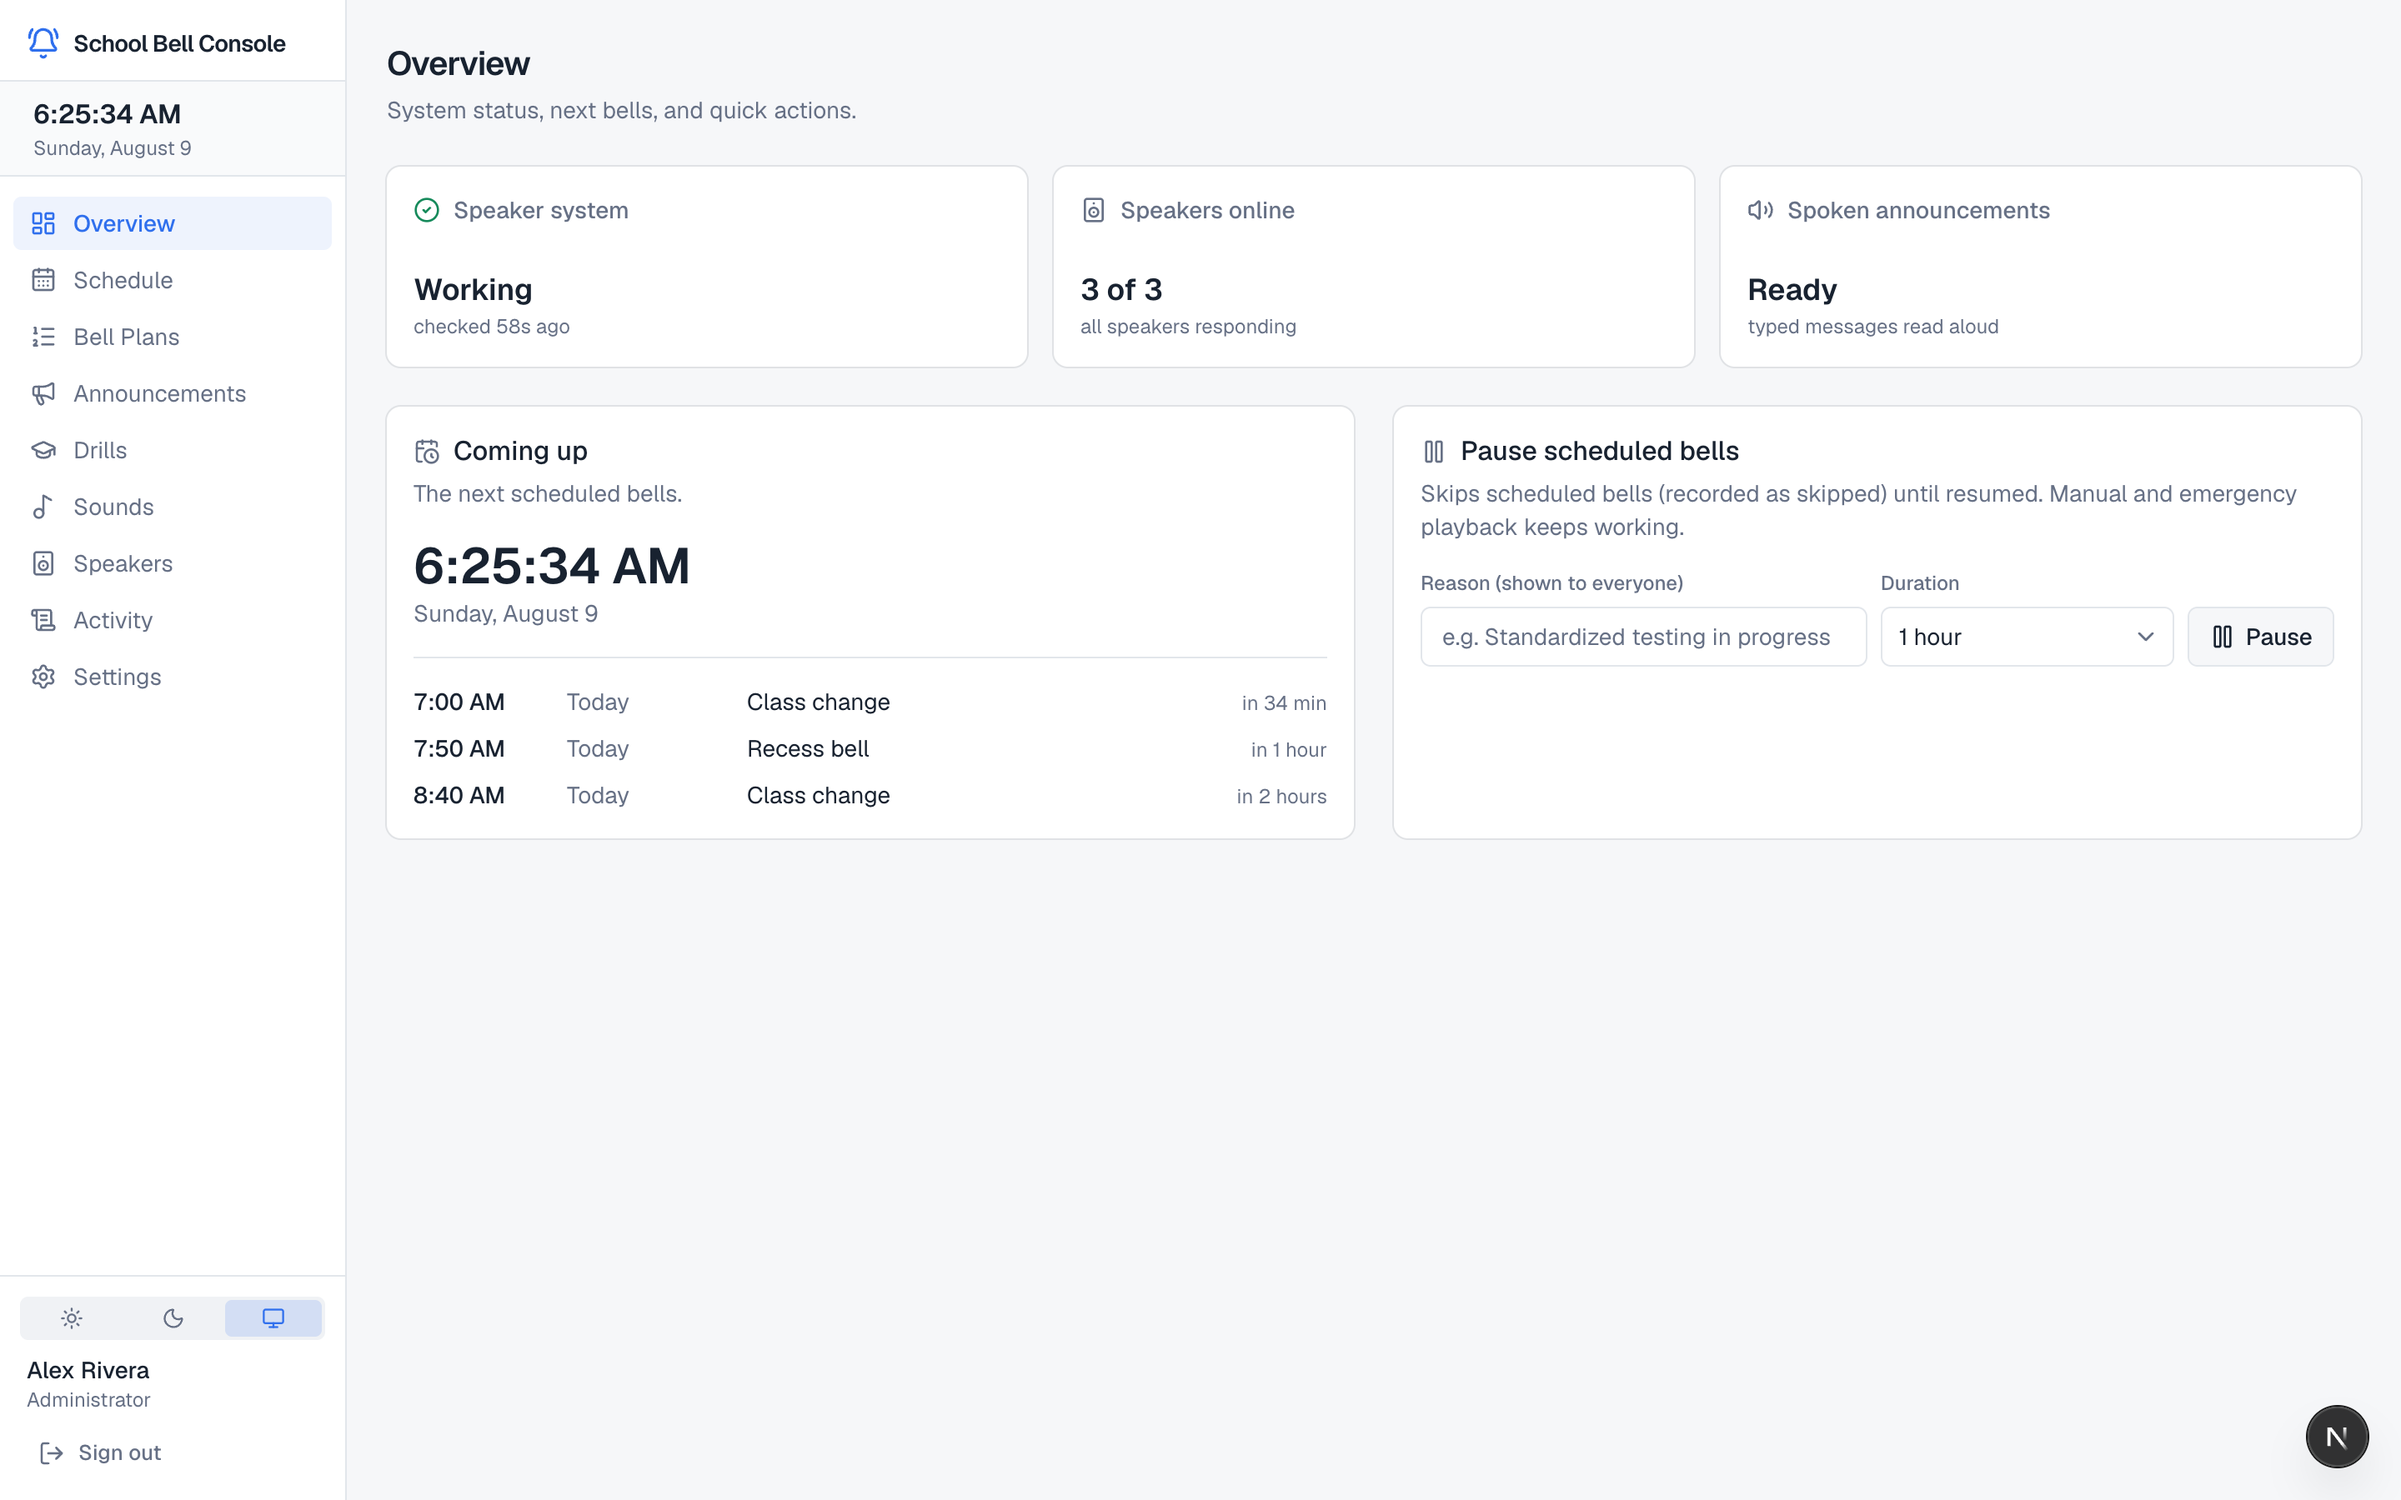
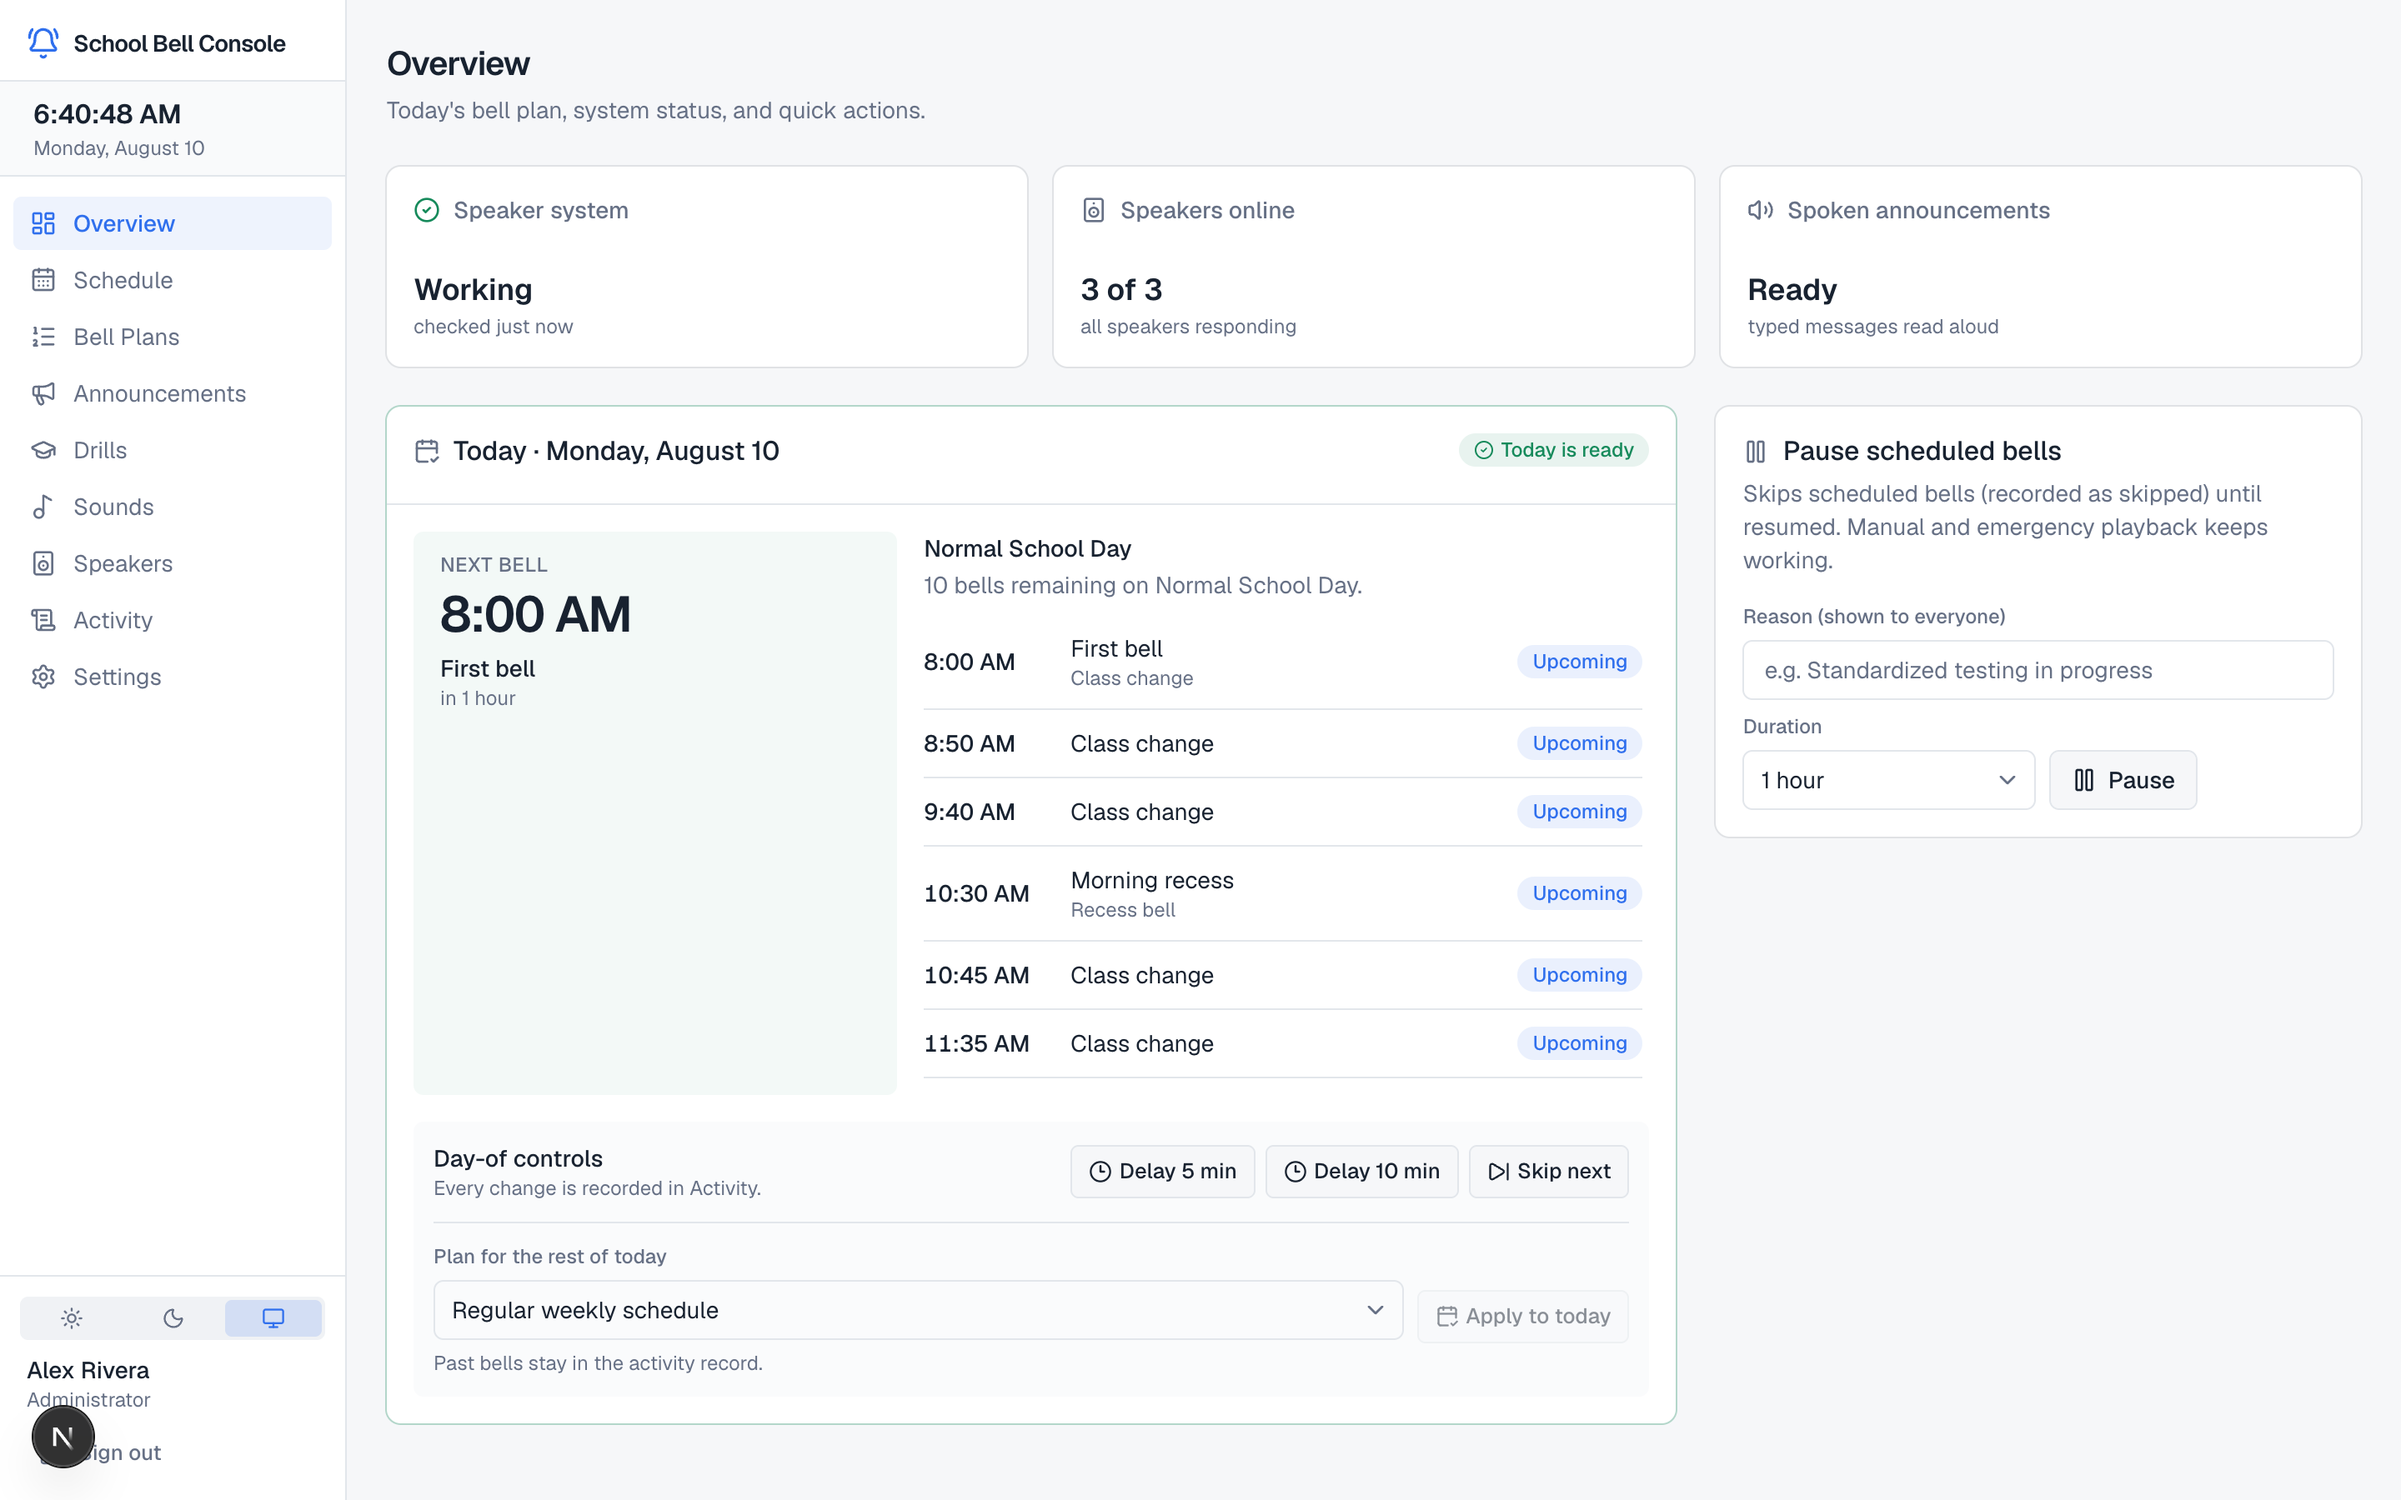
Demo: real materialized bells, and a current Overview screenshot
The seed previously hand-forged pending runs; the Today card
(correctly) refused to match them and painted the demo red. It now
runs the real materializer — which also fills the Schedule page —
and seeds far-future health/heartbeat timestamps so the no-worker,
no-NVR demo shows the healthy state it exists to demonstrate.
Overview screenshot re-captured with the Today card.

diff --git a/console/scripts/seed-demo.ts b/console/scripts/seed-demo.ts
@@ -189,12 +189,12 @@ async function main(): Promise<void> {
     { source: "MANUAL", deliveryMethod: "PROTECT_NATIVE_TTS", webhookId: null, cueId: null, cueName: "(typed announcement)", ttsText: "Bus 12 is running ten minutes late this afternoon.", httpStatus: 200, requestedBy: staff.id },
     y8.set({ hour: 14, minute: 5 }).toMillis(),
   );
-  // Upcoming: the next few scheduled bells.
-  let upcoming = DateTime.fromMillis(now, { zone: tz }).plus({ hours: 1 }).set({ minute: 0, second: 0, millisecond: 0 });
-  for (const label of ["Class change", "Recess bell", "Class change"]) {
-    run({ cueName: label, status: "PENDING", httpStatus: null, latencyMs: null, executedAt: null }, upcoming.toMillis());
-    upcoming = upcoming.plus({ minutes: 50 });
-  }
+  // Upcoming bells come from the REAL materializer, not hand-forged rows: the
+  // Today card matches runs to plan events by id and time, and forged rows
+  // would (correctly) show as "not queued". This also fills the Schedule page
+  // for the whole horizon.
+  const { materialize } = await import("@/lib/scheduler/materializer");
+  materialize();
 
   // ── a drill, on the books ──
   const seq = db
@@ -222,7 +222,17 @@ async function main(): Promise<void> {
   audit(now - 86_400_000 * 6 + 600_000, admin.id, "drill.finish", { completed: true });
 
   db.update(schema.systemState)
-    .set({ lastHealthOkAt: now - 12_000, consecutiveHealthFailures: 0, apiKeyExpiresAt: now + 25 * 86_400_000 })
+    .set({
+      // The demo intentionally runs no worker and reaches no NVR, but the UI
+      // being demonstrated is the healthy state. Far-future timestamps keep
+      // the readiness and health cards green for the whole browsing session;
+      // timeAgo() clamps future values to "just now", so nothing renders oddly.
+      lastHealthOkAt: now + 365 * 86_400_000,
+      workerHeartbeatAt: now + 365 * 86_400_000,
+      workerStartedAt: now,
+      consecutiveHealthFailures: 0,
+      apiKeyExpiresAt: now + 25 * 86_400_000,
+    })
     .run();
 
   sqlite.close();

diff --git a/README.md b/README.md
@@ -19,10 +19,12 @@ always-on machine on your LAN, so bells keep ringing when the internet doesn't.
   "this is a drill" announcement, aborted instantly by a real alert.
 - Speaker zones, pause, DST-safe scheduling, health monitoring, full audit
   trail, plain-language UI for school staff.
+- **Today command center** with the live day timeline, next-bell countdown,
+  staff-readable readiness, and guarded skip/delay/plan-change controls.
 
 ## What it looks like
 
-**Overview** — system health, the next bells, and pause at a glance:
+**Overview** — today's bell plan with day-of controls (skip, delay, switch plan), system health, and pause:
 
 ![Overview](docs/screenshots/overview.png)
 
